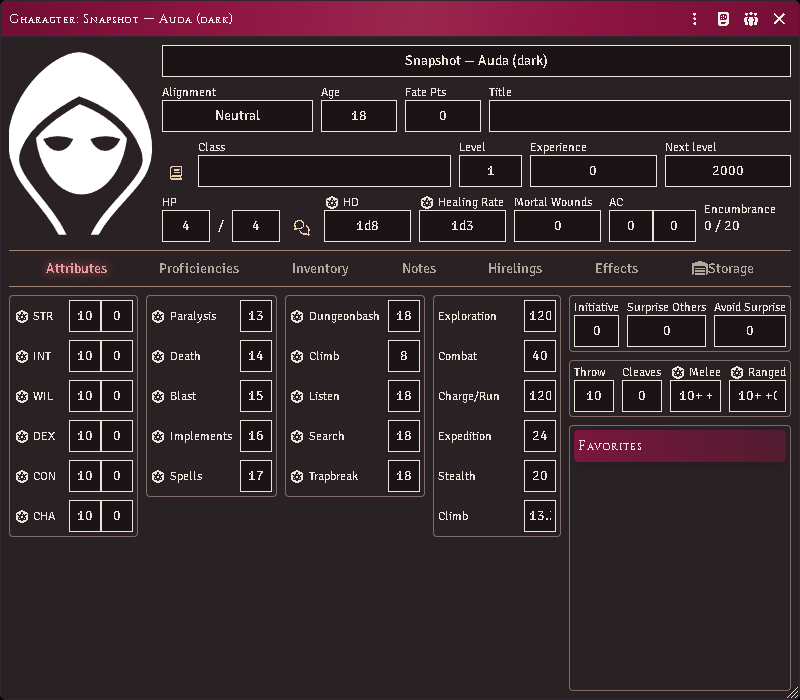
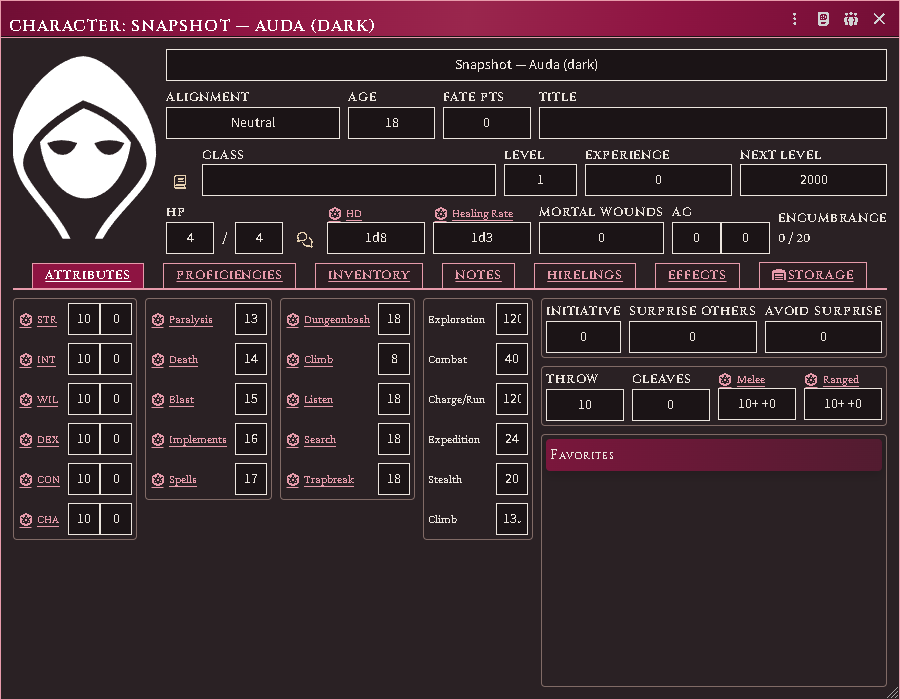
The system's sheets get the room the ACKS fields need, and a say in how much
The ACKS write-in fields are roomier than the ones core's character sheet was
laid out around, so its attribute grid wanted about 90px more than core's
default width and clipped its last column without them. The first answer was to
withhold the control styling from core's sheets and buy the pixels back by
giving up the burgundy caps labels and boxed tabs. That was the wrong shape of
correction: the window is what should give. It now carries a min-width — a
minimum, not a width, so a player who drags it wider keeps that.

The palette-without-the-furniture mode survives as the other half of a new
`sheetStyle` client setting, for a table that wants core's own layout. Both
values carry the identical light/dark remap, so the choice is how much ACKS,
never whether the seat works.

One lesson worth the comment it now carries: the first min-width targeted
`.acks.sheet.actor`, and the system's v2 actor sheet carries `actor-v2` with no
bare `.actor`. The rule matched nothing, and the unchanged overflow read as
"min-width does not beat an inline width" — which is false, and would have been
the wrong thing to learn. Verified live across all four sheetStyle x theme
combinations.

diff --git a/styles/lib-sheet-theme.css b/styles/lib-sheet-theme.css
@@ -75,6 +75,25 @@ body.acks-lib-sheet-theme .mortal-wounds-dialog :is(select, input) {
   color: var(--acks-ink);
 }
 
+/* --- Room for the ACKS controls. -----------------------------------------
+   The design system's fields are roomier than core's, and core sizes its
+   attribute grid around core's own field metrics — so the same grid needs
+   ~90px more than core's default width asks for, and clips its last column
+   without it. The window is what gives: widening it costs nothing, where
+   withholding the control styling costs the sheet its ACKS character. A
+   minimum rather than a width, so a player who drags it wider keeps that.
+
+   Scoped to `.acks-ui`, so it applies to the full dress only. The palette
+   setting leaves core's field metrics alone and therefore needs no more room
+   than core already asked for.
+
+   `.actor-v2` is the class the system's v2 actor sheet actually carries; it
+   does NOT also carry a bare `.actor`, so a selector written that way is
+   inert. --- */
+body.acks-lib-sheet-theme .acks.sheet.actor-v2.acks-ui {
+  min-width: 900px;
+}
+
 /* --- Type scale: the whole sheet rides --acks-fs-base. -------------------
    One knob (the acks-lib `fontScale` client setting writes --acks-fs-base
    inline on the root element); the system sheets' own em/% hierarchy scales

diff --git a/vendor/acks-design/foundry.css b/vendor/acks-design/foundry.css
@@ -24,14 +24,13 @@
  * ACKS look with no per-widget override at all.
  *
  * TWO CLASSES, ON PURPOSE. `.acks-palette` is this block and nothing else:
- * colour, type face, and no geometry. `.acks-ui` is this block PLUS the ACKS
+ * colour and type face, no geometry. `.acks-ui` is this block PLUS the ACKS
  * chrome below — window band, tabs, control padding, scrollbars.
  *
- * A surface laid out by someone else takes the palette only. The `acks`
- * system's character sheet sizes its attribute grid around its own field
- * metrics, so the roomier control padding further down this file — right for a
- * window the module lays out itself — pushes that grid 89px past its own edge.
- * Colour crosses that boundary safely; spacing does not.
+ * Both carry the full light/dark remap, so a host can take the palette without
+ * the furniture and still follow the seat exactly as a fully-dressed one does.
+ * That is the point of the split: the choice is how much ACKS, never whether
+ * dark mode works.
  * ------------------------------------------------------------------------ */
 .acks-ui,
 .acks-palette {

diff --git a/docs/lib/MODEL.md b/docs/lib/MODEL.md
@@ -35,24 +35,33 @@ light-theme constants and cannot follow a dark seat.
 | Chrome | `vendor/acks-design/foundry.css` | any application root carrying `acks-ui` |
 | Core sheets | `styles/lib-sheet-theme.css` | markup the **system** renders, prefixed `body.acks-lib-sheet-theme` |
 
-**Core's own windows are ACKS surfaces too.** A `renderApplicationV2` hook adds
-`acks-palette` to any application root carrying `acks` or `acks2`, which is every
-sheet and dialog the system renders. This is not decoration: the `acks` system
-publishes no dark palette — zero `.theme-dark` rules, and a sheet ground that is
-a fixed light parchment image — so without the remap its widgets draw light-theme
-values underneath themed module regions injected into the same sheet. There is no
-setting for this and no off-state; a seat that themed the module's windows but
-left the system's alone rendered one family two ways.
+**Core's own windows are ACKS surfaces too.** A `renderApplicationV2` hook marks
+any application root carrying `acks` or `acks2` — every sheet and dialog the
+system renders. This is not decoration: the `acks` system publishes no dark
+palette at all (zero `.theme-dark` rules, and a sheet ground that is a fixed
+light parchment image), so without the remap its widgets draw light-theme values
+underneath themed module regions injected into the same sheet.
 
-**`acks-palette` is the colour half of `acks-ui`, and the split is load-bearing.**
-`acks-ui` is the remap PLUS the ACKS chrome — window band, tabs, control padding,
-scrollbars — and belongs on windows this module lays out itself. A surface laid
-out by someone else takes `acks-palette` alone: core sizes its attribute grid
-around its own field metrics, and the design system's roomier control padding
-pushes that grid 89px past the sheet's own edge. Colour crosses that boundary
-safely; spacing does not. What makes a core sheet still *read* as ACKS — the
-banner, the small-caps, the ruled page, the boxed fields — is
-`styles/lib-sheet-theme.css`, which changes no geometry at all.
+**`acks-palette` is the colour half of `acks-ui`.** `acks-ui` is the remap PLUS
+the ACKS chrome — window band, tabs, control padding, scrollbars.
+`acks-palette` is the remap alone. Both carry the identical light/dark values,
+so the choice between them is how much ACKS, never whether the seat works.
+
+The `sheetStyle` client setting picks which one lands on the system's windows:
+
+| `sheetStyle` | Class | What core keeps |
+|---|---|---|
+| `full` (default) | `acks-ui` | nothing — banners, tabs and ACKS fields throughout |
+| `palette` | `acks-palette` | its own layout, spacing and field metrics |
+
+**Full dress needs a wider sheet, and gets one.** The ACKS fields are roomier
+than core's, and core sizes its attribute grid around core's own metrics, so the
+grid wants ~90px more than core's default width — it clips its last column
+otherwise. `lib-sheet-theme.css` gives `.acks.sheet.actor-v2.acks-ui` a
+`min-width`. A minimum, not a width, so a player who drags it wider keeps that;
+and scoped to `.acks-ui`, so palette mode leaves core's width alone. Note the
+class is `actor-v2` — the system's v2 actor sheet does not also carry a bare
+`.actor`, so a selector written that way is inert.
 
 **Tokens are published once.** Light at `:root`, dark at a single override block.
 Nothing else declares a palette value — a second publisher at higher specificity
@@ -82,10 +91,13 @@ by-the-rules — are carried by the glyph, the glyph's weight, or the rule weigh
 `--acks-gold` is the one accent beyond the spot colour, and it is a real measured
 token, not a per-feature invention.
 
-**Two client settings drive it**, both in `lib/module.mjs` and both per player:
+**Three client settings drive it**, all in `lib/module.mjs` and all per player:
 
 - `theme` — `follow` (default), `light`, `dark`. Pins `data-acks-theme` on
   `<html>`; `follow` removes the attribute so Foundry's own scheme governs.
+- `sheetStyle` — `full` (default) or `palette`, per the table above. Its
+  `onChange` re-dresses already-open windows in place, or the setting appears to
+  do nothing until each is reopened.
 - `fontScale` — writes `--acks-fs-base` inline on `<html>`, rescaling every ACKS
   surface from one knob.
 

diff --git a/docs/lib/DECISIONS.md b/docs/lib/DECISIONS.md
@@ -383,13 +383,12 @@ would have made the off position legible by letting those regions inherit core's
 colours, but it preserves the two-ways-rendered split as a supported state, which
 is the thing being removed.
 
-### The palette crosses to core's sheets; the chrome does not (2026-08-05)
+### The palette crosses to core's sheets; the chrome is a setting (2026-08-05)
 
 Carrying the ACKS look onto the system's own windows began as one class:
 `renderApplicationV2` added `acks-ui` to every root carrying `acks` or `acks2`.
-It looked right and it was wrong. Measured live on the character sheet, the
-attributes tab rendered 871px of content in a 782px box — 89px past its own
-edge, clipping the last column's labels.
+It looked right and it clipped. Measured live on the character sheet, the
+attributes tab rendered 871px of content in a 782px box.
 
 The cause was not typography, which was the obvious suspect and the wrong one:
 the computed font size is 14px with the frame on or off. It was
@@ -397,25 +396,30 @@ the computed font size is 14px with the frame on or off. It was
 `4px 6px` of padding. Core's attribute grid is sized around core's own field
 metrics, and a dozen widened fields is 89px.
 
-**Ruled: `.acks-palette` — the variable remap alone, no geometry.** The design
-system now publishes the remap under both `.acks-ui` and `.acks-palette`, and
-keeps the chrome (window band, tabs, control padding, scrollbars, form geometry)
-under `.acks-ui` only. Windows this module lays out itself take `.acks-ui`;
-surfaces laid out by someone else take `.acks-palette`. Verified: 782px and zero
-overflow with the palette applied, and `--color-text-primary` still remapped to
-the ACKS ink rather than core's own value.
+**First answer, and it was the wrong shape: withhold the chrome.** The design
+system grew `.acks-palette` — the variable remap with no geometry — and core's
+sheets took that instead. It measured clean, and it gave up the burgundy caps
+labels and the boxed tabs to buy back 89px. Owner, immediately: *how was
+"revert everything" easier than adding some pixels to the width of one window's
+default?* Correct. The window is what should give.
 
-Nothing is lost visually. What makes a core sheet read as ACKS — the porphyry
-banner, the small-caps lettering, the ruled page, the boxed write-in fields —
-comes from `styles/lib-sheet-theme.css`, and that layer was measured at core's
-own 782px both before and after. The chrome was never what carried the look
-there.
+**Ruled: the sheet gets a `min-width`, and the split becomes a setting.**
+`lib-sheet-theme.css` widens `.acks.sheet.actor-v2.acks-ui` to 900px — a
+minimum, not a width, so a player who drags it wider keeps that. `.acks-palette`
+survives as the other value of the new `sheetStyle` client setting, for a table
+that wants the colours without the furniture. Both classes carry the identical
+light/dark remap, so the setting is how much ACKS, never whether dark mode
+works. Verified live across all four `sheetStyle` x `theme` combinations: zero
+overflow and the correct ink in every one.
+
+**A selector written against the wrong class is silently inert.** The first
+min-width targeted `.acks.sheet.actor`, and the system's v2 actor sheet carries
+`actor-v2` with no bare `.actor` — so the rule matched nothing and the overflow
+persisted unchanged. It read as "min-width does not override Foundry's inline
+width", which is false and would have been the wrong lesson. Read the class list
+off the live element before scoping to it.
 
 **The general rule this establishes:** a design system may hand another owner's
-layout its colours, never its spacing. Every token in the remap is a colour or a
-face; every geometry knob stayed behind.
+layout its colours freely. If it also wants to hand over its geometry, it has to
+give that layout the room, not take away the geometry.
 
-**Cost:** two classes to keep straight, and a module window that also carries a
-system class now gets both (harmless — the palette is a strict subset). The
-alternative was neutralising core's field padding from the override layer, which
-means this module guessing at core's metrics and re-guessing whenever they move.

diff --git a/CHANGELOG.md b/CHANGELOG.md
@@ -12,13 +12,14 @@
   the porphyry running head, the square letterpress rules, the small-caps banner
   lettering — instead of Foundry's default chrome. Nothing moved: this changes
   what the module is coloured with, not where anything sits.
-- **The system's own sheets follow your colour scheme.** Every window the ACKS
-  system opens now draws from the same palette as this module's, so a dark seat
+- **The system's own sheets are ACKS windows too.** Every window the ACKS system
+  opens — the character sheet, the item sheet, and its dialogs — now wears the
+  same frame and the same palette as everything this module opens, so a dark seat
   is dark all the way through instead of stopping at the module's own windows.
-  The system's sheets keep their own spacing — they are laid out around field
-  sizes this module has no business changing — and take the printed-sheet
-  treatment on top: the porphyry banner, the ruled page, the boxed write-in
-  fields.
+  The character sheet opens a little wider than it used to: the ACKS write-in
+  fields are roomier than the ones it was laid out around, and it is given the
+  room rather than made to do without them. Drag it wider and it stays where you
+  put it.
 - **A distinction you could only see in colour is now drawn, not tinted.** A lit
   lamp and an unlit one were the same icon in two hues; a magical light and a
   mundane one were purple and blue. The books have no such palette to spend, so
@@ -27,13 +28,14 @@
   hues did not.
 
 ### Removed
-- **The Character-sheet theme setting is gone, and the theme it toggled is now
-  simply on.** Turning it off did not return you to a neutral Foundry; it left
-  the module's own windows themed and the system's not, which is the split this
-  release exists to close. It could not be made safe either way: the ACKS system
-  publishes no dark palette at all, so with the theme off a dark seat put the
-  module's regions on a page drawn for a light one. Nothing replaces it — the new
-  ACKS colour scheme setting is the knob that was actually wanted.
+- **The Character-sheet theme on/off toggle is gone, replaced by a choice of how
+  much.** Off never returned you to a neutral Foundry — it left this module's
+  windows themed and the system's not, which is the split this release closes,
+  and the ACKS system publishes no dark palette to fall back to, so a dark seat
+  put the module's panels on a page drawn for a light one. **ACKS styling on
+  system sheets** takes its place: *Full dress* restyles the furniture too, and
+  *Palette only* keeps the system's own layout, spacing and width and changes
+  nothing but the colours. Both follow your colour scheme.
 
 ### Added
 - **You can hold the ACKS look steady while the rest of your client goes the

diff --git a/docs/guides/appearance.md b/docs/guides/appearance.md
@@ -34,19 +34,31 @@ colour scheme to **Always light** and it resolves.
 follower cards, module windows, and the system's sheets. One knob rescales the
 whole family; Foundry's own UI scale applies on top of it.
 
-## What happened to the character-sheet theme
+## Choose how much styling the system's sheets take
 
-There used to be a **Character-sheet theme** toggle. It is gone, and what it
-switched on is now simply how the module looks.
+**ACKS styling on system sheets** decides how far the look reaches into the
+windows the ACKS *system* opens — the character sheet, the item sheet, its
+dialogs.
 
-Turning it off never returned you to a neutral Foundry — it left this module's
-windows in the ACKS look and the system's in Foundry's default one, which is the
-split this release exists to close. It could not be made safe in the off position
-either: the ACKS system publishes no dark palette of its own, so with the theme
-off a dark seat put the module's panels on a page drawn for a light one.
+| Setting | What it does |
+|---|---|
+| **Full dress** (default) | Banners, tabs and ACKS write-in fields throughout. The character sheet opens wider to fit them |
+| **Palette only** | The system keeps its own layout, spacing and width; only the colours change |
 
-If what you wanted was a lighter or darker look, **ACKS colour scheme** above is
-the knob that was actually being reached for.
+Both follow your colour scheme. This setting is how much ACKS, never whether
+dark mode works.
+
+Full dress widens the character sheet by about 90px. The ACKS write-in fields
+are roomier than the ones that sheet was laid out around, so it is given the room
+rather than made to do without them — and it is a minimum, not a fixed width, so
+if you drag the sheet wider it stays where you put it. If you would rather keep
+the sheet exactly as the system draws it, that is what **Palette only** is for.
+
+There used to be a **Character-sheet theme** on/off toggle. Off never returned
+you to a neutral Foundry — it left this module's windows in the ACKS look and the
+system's in Foundry's default one — and the ACKS system publishes no dark palette
+of its own, so on a dark seat it put the module's panels on a page drawn for a
+light one. The choice above replaces it.
 
 ## Colour is never the only signal
 

diff --git a/README.md b/README.md
@@ -91,8 +91,10 @@ The foundation the other features are built on, and useful on its own.
 - **The rules-table registry.** A priority-layered store the other features read
   through: built-in sample tables at the bottom, imported book tables above them,
   GM overrides on top. Nobody reads a table by module name.
-- **Theming.** One design-token layer (`--acks-*`) across every ACKS surface,
-  plus a per-client font-size control.
+- **Theming.** One design-token layer (`--acks-*`) across every ACKS surface —
+  including the ones the *system* renders — measured from the books and carrying
+  a light and a dark value for every colour. Per-client controls for colour
+  scheme, how much styling the system's own sheets take, and font size.
 
 ### Proficiencies, class powers and skills
 
@@ -203,7 +205,7 @@ transcription. The module ships no book text.
 the UI).
 
 **Library** — `attackRollPatch`, `manageVision`, `advanceWorldTime`,
-`storageDeletePolicy`; per-client `theme`, `fontScale`.
+`storageDeletePolicy`; per-client `theme`, `sheetStyle`, `fontScale`.
 
 **Equipment** — `enforceMode`, `proficiencyEnforcement`, `rollAutomation`,
 `ammoTracking`, `defaultHandBudget`, plus six `overlay*` optional rules.
